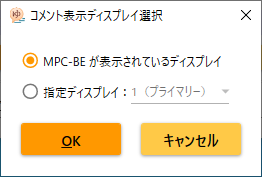
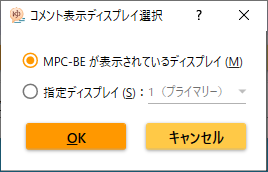
Ver 2.10 時点

diff --git a/YukkoView2/Documents/YukkoView2_JPN.html b/YukkoView2/Documents/YukkoView2_JPN.html
@@ -123,7 +123,7 @@
 
 <p>
 <a href="HelpParts/YukkoView2_Desktop_Frame.png" target="_blank"><img src="HelpParts/YukkoView2_Desktop_Frame.png" alt="" width="256" align="right" border="0" hspace="10" vspace="10"></a>
-スタートメニューからゆっこビュー 2&nbsp;を起動すると、スプラッシュウィンドウ（オープニングウィンドウ）が表示された後で、メインウィンドウが表示されます。<br>
+スタートメニュー（「や」行の位置）からゆっこビュー 2&nbsp;を起動すると、スプラッシュウィンドウ（オープニングウィンドウ）が表示された後で、メインウィンドウが表示されます。<br>
 <br>
 また、デスクトップ全体が緑色の枠に囲まれ、「コメント表示を開始します」というコメントがデスクトップ上部を右から左へ流れていきます。<br clear="right">
 <br>
@@ -181,6 +181,19 @@
   <li>ヘルプボタン（<img src="HelpParts/YukkoView2_ButtonHelp.png" alt="" height="24" class="InlineImg">）……本ヘルプ等、さまざまな情報を表示するためのメニューが表示されます。</li>
   <li>コメント投稿ボタン（<img src="HelpParts/YukkoView2_ButtonComment.png" alt="" height="24" class="InlineImg">）……入力したコメントを投稿します。コメント停止中は投稿できません。</li>
 </ul>
+
+<a name="Keyboardsousa"></a>
+<h3>キーボード操作</h3>
+
+<p>
+各種ボタンにマウスカーソルを合わせるとツールチップが表示されますが、そこに記載のアルファベットと Alt キーを押すことにより、キーボードでもボタン操作が行えます。<br>
+<br>
+例えば、ディスプレイ選択ボタンは「ディスプレイ選択 (D)」と表示されますので、Alt+D でディスプレイ選択ボタンを押すことができます。<br>
+<br>
+コメント入力後、Enter キーでも投稿することができます。<br>
+<br>
+F1 キーでヘルプが表示されます。<br>
+</p>
 
 <a name="Displaysentaku"></a>
 <h1>ディスプレイ選択</h1>
@@ -322,14 +335,21 @@ C:\xampp\htdocs\config.ini
 「今すぐ最新情報を確認」ボタンをクリックすると、直ちに確認が行われます。<br>
 </p>
 
-<!-- 
-<a name="Loghozon"></a>
-<h3>ログ保存</h3>
+<a name="SetteinoBackup"></a>
+<h3>設定のバックアップ</h3>
 
 <p>
-ゆっこビュー 2&nbsp;の動作の記録であるログなどを保存することができます。ゆっこビュー 2&nbsp;に不具合があった場合の原因究明などに役立つ場合があります。<br>
+ゆっこビュー 2&nbsp;の設定を保存します。<br>
+<br>
+Windows を再インストールする前などに保存しておくと良いでしょう。また、動作に問題が発生したときに開発者とやり取りする際、手助けになる場合があります。<br>
 </p>
--->
+
+<a name="SetteinoFukugen"></a>
+<h3>設定の復元</h3>
+
+<p>
+バックアップしておいたゆっこビュー 2&nbsp;の設定を読み込みます。<br>
+</p>
 
 <a name="Syokika"></a>
 <h2>初期化</h2>

diff --git a/YukkoView2/Views/CustomControls/CommentControl.cs b/YukkoView2/Views/CustomControls/CommentControl.cs
@@ -124,8 +124,7 @@ namespace YukkoView2.Views.CustomControls
 				// オフスクリーン描画
 				// オフスクリーンをクラスメンバーにすると、ガベージコレクトが遅延するのか、一時的に数 GB のメモリを消費してしまう（Freeze() してなかったからかも）
 				// 将来的な効率化（オフスクリーンサイズ最適化）も考慮し、オフスクリーンは都度生成する
-				RenderTargetBitmap offScreen = CreateOffScreen(ActualHeight);
-				Rect drawingRect = new(0, 0, offScreen.Width, offScreen.Height);
+				RenderTargetBitmap offScreen;
 				if (IsEnabled)
 				{
 					DrawingVisual offScreenVisual = new();
@@ -133,28 +132,37 @@ namespace YukkoView2.Views.CustomControls
 					using DrawingContext offScreenContext = offScreenVisual.RenderOpen();
 
 					// 枠
-					DrawFrameIfNeeded(offScreenContext);
+					Double drawHeight = DrawFrameIfNeeded(offScreenContext);
 
 					// 描画データ準備
 					PrepareDrawDataIfNeeded();
 
 					// 予約一覧描画
 					// ToDo: 予約一覧の内容がピクセルぴったり描画になっていない
-					DrawRequestListIfNeeded(offScreenContext);
+					drawHeight = Math.Max(DrawRequestListIfNeeded(offScreenContext), drawHeight);
 
 					// コメント描画
-					DrawCommentInfosIfNeeded(offScreenContext);
+					drawHeight = Math.Max(DrawCommentInfosIfNeeded(offScreenContext), drawHeight);
 
 #if DEBUGz
 					offScreenContext.DrawRectangle(Brushes.SkyBlue, null, new Rect(500, 300, 100, 100));
 #endif
 
 					// オフスクリーンへ描画
+					Debug.WriteLine("OnRender() drawHeight: " + drawHeight);
 					offScreenContext.Close();
+					offScreen = CreateOffScreen(drawHeight);
 					offScreen.Render(offScreenVisual);
+				}
+				else
+				{
+					// クリア用
+					Debug.WriteLine("OnRender() clear");
+					offScreen = CreateOffScreen(ActualHeight);
 				}
 
 				// オンスクリーンへ転写
+				Rect drawingRect = new(0, 0, offScreen.Width, offScreen.Height);
 				drawingContext.DrawImage(offScreen, drawingRect);
 
 #if DEBUGz
@@ -409,6 +417,7 @@ namespace YukkoView2.Views.CustomControls
 		// --------------------------------------------------------------------
 		private RenderTargetBitmap CreateOffScreen(Double height)
 		{
+			height = Math.Min(height, ActualHeight);
 			RenderTargetBitmap offScreen = new(Math.Max((Int32)ActualWidth, 1), Math.Max((Int32)height, 1), Common.DEFAULT_DPI, Common.DEFAULT_DPI, PixelFormats.Pbgra32);
 			SetRenderOptions(offScreen);
 			return offScreen;
@@ -425,8 +434,10 @@ namespace YukkoView2.Views.CustomControls
 		// --------------------------------------------------------------------
 		// コメントを移動して描画
 		// --------------------------------------------------------------------
-		private void DrawCommentInfosIfNeeded(DrawingContext drawingContext)
+		private Double DrawCommentInfosIfNeeded(DrawingContext drawingContext)
 		{
+			Double height = 0.0;
+
 			foreach (CommentInfo commentInfo in CommentInfos.Keys)
 			{
 				if (commentInfo.IsDrawDataPrepared)
@@ -434,6 +445,10 @@ namespace YukkoView2.Views.CustomControls
 					CalcCommentLeft(commentInfo);
 					MoveComment(commentInfo);
 					DrawCommentInfo(drawingContext, commentInfo);
+					if (commentInfo.MessageGeometry != null)
+					{
+						height = Math.Max(height, commentInfo.MessageGeometry.Bounds.Bottom + commentInfo.EdgeWidth);
+					}
 					if (commentInfo.Right <= 0)
 					{
 						// 移動が完了したので削除
@@ -446,22 +461,24 @@ namespace YukkoView2.Views.CustomControls
 					}
 				}
 			}
+
+			return height;
 		}
 
 		// --------------------------------------------------------------------
 		// 描画領域を示す枠（描画対象ディスプレイ一杯）を描画
 		// --------------------------------------------------------------------
-		private void DrawFrameIfNeeded(DrawingContext drawingContext)
+		private Double DrawFrameIfNeeded(DrawingContext drawingContext)
 		{
 			if (!_drawFrame)
 			{
-				return;
+				return 0.0;
 			}
 			if (Environment.TickCount >= _clearFrameTick)
 			{
 				// 枠を消去する時刻になった
 				ClearDrawFrame();
-				return;
+				return 0.0;
 			}
 
 			// 上下マージン
@@ -473,26 +490,30 @@ namespace YukkoView2.Views.CustomControls
 			drawingContext.DrawRectangle(Brushes.GreenYellow, null, new Rect(0, ActualHeight - frameThick - margin, ActualWidth, frameThick));
 			drawingContext.DrawRectangle(Brushes.GreenYellow, null, new Rect(0, margin, frameThick, ActualHeight - margin * 2));
 			drawingContext.DrawRectangle(Brushes.GreenYellow, null, new Rect(ActualWidth - frameThick, margin, frameThick, ActualHeight - margin * 2));
+
+			return ActualHeight - margin;
 		}
 
 		// --------------------------------------------------------------------
 		// 予約一覧を描画
 		// --------------------------------------------------------------------
-		private void DrawRequestListIfNeeded(DrawingContext drawingContext)
+		private Double DrawRequestListIfNeeded(DrawingContext drawingContext)
 		{
 			if (!_drawRequestList)
 			{
-				return;
+				return 0.0;
 			}
 			if (Environment.TickCount >= _clearRequestListTick)
 			{
 				// 予約一覧を消去する時刻になった
 				ClearDrawRequestList();
-				return;
+				return 0.0;
 			}
 
 			// 描画
 			drawingContext.DrawImage(_requestListOffScreen, new Rect(0, (ActualHeight - _requestListOffScreen.Height) / 2, _requestListOffScreen.Width, _requestListOffScreen.Height));
+
+			return (ActualHeight - _requestListOffScreen.Height) / 2 + _requestListOffScreen.Height;
 		}
 
 		// --------------------------------------------------------------------

diff --git a/YukkoView2/Models/SharedMisc/Yv2Constants.cs b/YukkoView2/Models/SharedMisc/Yv2Constants.cs
@@ -93,7 +93,7 @@ namespace YukkoView2.Models.SharedMisc
 		// --------------------------------------------------------------------
 		public const String APP_ID = "YukkoView2";
 		public const String APP_NAME_J = "ゆっこビュー 2 ";
-		public const String APP_VER = "Ver 1.31";
+		public const String APP_VER = "Ver 2.10";
 		public const String COPYRIGHT_J = "Copyright (C) 2022 by SHINTA";
 #if DISTRIB_STORE
 		public const String APP_DISTRIB = "ストア版";
